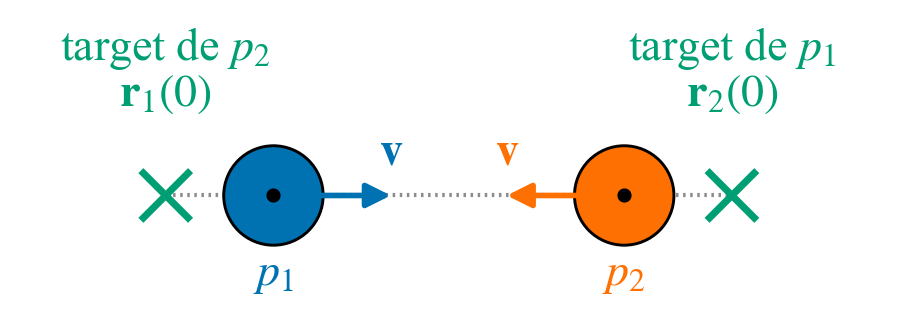
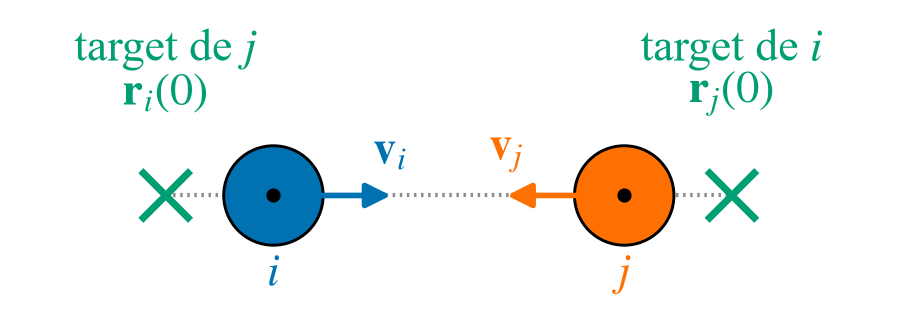
Small updates

diff --git a/docs/presentation/secciones/introduccion.tex b/docs/presentation/secciones/introduccion.tex
@@ -19,16 +19,10 @@ m_i\,\ddot{\vv{r}}_i =
 m_i\,\frac{v_{di}\,\vv{e}_0 - \vv{v}_i}{\tau_i}
 \]
 
-\[
-\text{\normalsize Capa de elusión: solo modifica }
-\vv{e}_0
-\]
-
 \vspace{6pt}
 
 \textbf{
-Fuerza de contacto, con
-$\varepsilon_{ij} = d_{ij} - (r_i + r_j)$:
+Fuerza de contacto, solo si se superponen ($\varepsilon_{ij} < 0$):
 }
 
 \[
@@ -39,45 +33,53 @@ $\varepsilon_{ij} = d_{ij} - (r_i + r_j)$:
 \Big]
 \]
 
+{\small
+$\varepsilon_{ij} = d_{ij} - (r_i + r_j)$,
+\quad $d_{ij} = \|\vv{r}_i - \vv{r}_j\|$,
+\quad $\vv{e}^{\,n}_{ij} = (\vv{r}_i - \vv{r}_j)/d_{ij}$,
+\quad $\vv{e}^{\,t}_{ij} = (-e^{n}_{ij,y},\ e^{n}_{ij,x})$,
+\quad $v^{t}_{ij} = (\vv{v}_i - \vv{v}_j)\cdot\vv{e}^{\,t}_{ij}$,
+}
+
 \end{frame}
 
 
 
 \begin{frame}{Capa de elusión}
 
-\textbf{Sistema de referencia local}
+\textbf{Sistema de referencia local} (peatón $i$, obstáculo $j$, target $\vv{t}$)
 
 \[
-\mathbf{u} =
-\frac{\mathbf{t}-\mathbf{p}}{\|\mathbf{t}-\mathbf{p}\|},
+\hat{\vv{u}} =
+\frac{\vv{t}-\vv{r}_i}{\|\vv{t}-\vv{r}_i\|},
 \qquad
-\mathbf{r} =
+\hat{\vv{n}} =
 \begin{pmatrix}u_y\\-u_x\end{pmatrix}
 \]
 
 \textbf{Proyección de la posición del obstáculo}
 
 \[
-\mathbf{q}=\mathbf{o}-\mathbf{p}
+\vv{q}=\vv{r}_j-\vv{r}_i
 \]
 
 \[
-d_{\parallel}=\mathbf{q}\cdot\mathbf{u},
+d_{\parallel}=\vv{q}\cdot\hat{\vv{u}},
 \qquad
-d_{\perp}=\mathbf{q}\cdot\mathbf{r}
+d_{\perp}=\vv{q}\cdot\hat{\vv{n}}
 \]
 
 \textbf{Condición de conflicto}
 
 \[
-R=r_o+d_{\text{lat}},
+R=r_j+\dlat,
 \qquad
-d_T=\|\mathbf{t}-\mathbf{p}\|
+d_T=\|\vv{t}-\vv{r}_i\|
 \]
 
 \[
 \boxed{
-\|\mathbf{o}-\mathbf{p}\|\leq d_{\text{act}}
+d_{ij}\leq \dact
 \quad\land\quad
 0<d_{\parallel}<d_T
 \quad\land\quad
@@ -98,13 +100,13 @@ d_T=\|\mathbf{t}-\mathbf{p}\|
       \textbf{Interpolación cuadrática (Lagrange)}
       \begin{flalign*}
         & P_0=(0,0),\quad
-          P_1=(d_{\parallel},R),\quad
+          P_1=(d_{\parallel},\,d_{\perp}+R),\quad
           P_2=(d_T,0) & \\
         & f(x)=ax^2+bx+c
           \qquad
           \boxed{
-            m=f'(0)=
-            \frac{R\,d_T}{d_{\parallel}(d_T-d_{\parallel})}
+            f'(0)=
+            \frac{(d_{\perp}+R)\,d_T}{d_{\parallel}(d_T-d_{\parallel})}
           } &
       \end{flalign*}
     \end{column}
@@ -112,12 +114,12 @@ d_T=\|\mathbf{t}-\mathbf{p}\|
       \textbf{Integración con SFM}
       \begin{flalign*}
         & \boxed{
-            \mathbf{e}_0=
-            \frac{\mathbf{u}+m\mathbf{r}}{\sqrt{1+m^2}}
+            \vv{e}_0=
+            \frac{\hat{\vv{u}}+f'(0)\,\hat{\vv{n}}}{\sqrt{1+f'(0)^2}}
           } & \\[4pt]
         & \boxed{
-            \mathbf{F}_d=
-            \frac{m_p}{\tau}(v_0\mathbf{e}_0-\mathbf{v})
+            \vv{F}_{Di}=
+            m_i\,\frac{v_{di}\,\vv{e}_0-\vv{v}_i}{\tau_i}
           } &
       \end{flalign*}
     \end{column}

diff --git a/docs/presentation/secciones/simulaciones.tex b/docs/presentation/secciones/simulaciones.tex
@@ -11,12 +11,11 @@
         \item $\tau_i = 0.5\uni{s}$
         \item $k_n = 1.2\ten{5}\uni{N/m}$
         \item $k_t = 2.4\ten{5}\uni{kg/(m\,s)}$
-        \item[] {\scriptsize Helbing et al., Nature (2000)}
       \end{parametros}
       \vspace{4pt}
       \begin{parametros}[Parámetros variables (a calibrar)]
         \item $\dlat$: margen lateral de elusión
-        \item $\dact$: distancia de activación de la elusión
+        \item $\dact$: distancia activación de elusión
       \end{parametros}
     \end{column}
   \end{cols}
@@ -60,28 +59,28 @@
 \end{frame}
 
 \begin{frame}{Observables}
-  Error del peatón $i$ del evento $m$ \ ($N_m$ instantes $t_k = k\,\Delta t_{\mathrm{exp}}$):
+  Error del peatón $i$ del evento $\ell$ \ ($N_\ell$ instantes $t_k = k\,\Delta t_{\mathrm{exp}}$):
   \[
     d^2_i(t_k) = \big|\vv{r}^{\,\mathrm{exp}}_i(t_k) - \vv{r}^{\,\mathrm{sim}}_i(t_k)\big|^2
     \qquad\quad
-    d^2_{i,\min}(t_k) = \min_{j}\big|\vv{r}^{\,\mathrm{exp}}_i(t_k) - \vv{r}^{\,\mathrm{sim}}_i(t_j)\big|^2
+    d^2_{i,\min}(t_k) = \min_{k'}\big|\vv{r}^{\,\mathrm{exp}}_i(t_k) - \vv{r}^{\,\mathrm{sim}}_i(t_{k'})\big|^2
   \]
   \[
-    \boxed{E^{(1)}_i = \frac{1}{N_m}\sum_{k} d^2_i(t_k)}
+    \boxed{E^{(1)}_i = \frac{1}{N_\ell}\sum_{k} d^2_i(t_k)}
     \qquad\quad
-    \boxed{E^{(2)}_i = \frac{1}{N_m}\sum_{k} d^2_{i,\min}(t_k)}
+    \boxed{E^{(2)}_i = \frac{1}{N_\ell}\sum_{k} d^2_{i,\min}(t_k)}
   \]
   \vspace{2pt}
   Error del evento y error poblacional:
   \[
-    E_m = \frac{1}{2}\sum_{i=1}^{2} E_i
+    E_\ell = \frac{1}{2}\sum_{i=1}^{2} E_i
     \qquad\quad
-    \langle E\rangle(\dlat,\,\dact) = \frac{1}{M}\sum_{m=1}^{M} E_m(\dlat,\,\dact)
+    \langle E\rangle(\dlat,\,\dact) = \frac{1}{M}\sum_{\ell=1}^{M} E_\ell(\dlat,\,\dact)
   \]
   \vspace{2pt}
   Barra de error: desvío estándar muestral entre eventos,\ $\langle E\rangle \pm \sigma_E$
   \[
-    \sigma_E = \sqrt{\frac{1}{M-1}\sum_{m=1}^{M}\big(E_m - \langle E\rangle\big)^2}
+    \sigma_E = \sqrt{\frac{1}{M-1}\sum_{\ell=1}^{M}\big(E_\ell - \langle E\rangle\big)^2}
   \]
 \end{frame}
 
@@ -101,7 +100,7 @@
   \begin{tabular}{ll}
     \hline
     Calibración poblacional & mínimo de $\langle E\rangle$ en la grilla, $18$ eventos \\
-    Calibración individual  & mínimo de $E_m$ en la grilla, por evento \\
+    Calibración individual  & mínimo de $E_\ell$ en la grilla, por evento \\
     Validación cruzada      & $20$ particiones al azar: $13$ de entrenamiento, $5$ de validación \\
     \hline
   \end{tabular}

diff --git a/scripts/plot_targets_driving_force.py b/scripts/plot_targets_driving_force.py
@@ -34,10 +34,10 @@ def main():
     p1 = p1_start + np.array([0.78, 0.0])
     p2 = p2_start - np.array([0.78, 0.0])
     pedestrians = (
-        {"name": "$p_1$", "here": p1, "aim": np.array([1.0, 0.0]),
-         "target": p2_start, "label": "target de $p_1$\n$\\mathbf{r}_2(0)$", "color": BLUE},
-        {"name": "$p_2$", "here": p2, "aim": np.array([-1.0, 0.0]),
-         "target": p1_start, "label": "target de $p_2$\n$\\mathbf{r}_1(0)$", "color": VERMILLION},
+        {"name": "$i$", "velocity": "$\\mathbf{v}_i$", "here": p1, "aim": np.array([1.0, 0.0]),
+         "target": p2_start, "label": "target de $i$\n$\\mathbf{r}_j(0)$", "color": BLUE},
+        {"name": "$j$", "velocity": "$\\mathbf{v}_j$", "here": p2, "aim": np.array([-1.0, 0.0]),
+         "target": p1_start, "label": "target de $j$\n$\\mathbf{r}_i(0)$", "color": VERMILLION},
     )
 
     xlim, ylim = (-3.25, 3.25), (-0.88, 1.42)
@@ -61,7 +61,7 @@ def main():
                     arrowprops={"arrowstyle": "-|>", "color": color, "lw": 1.35,
                                 "shrinkA": 0, "shrinkB": 0, "mutation_scale": 12},
                     zorder=6)
-        ax.text(tip[0], 0.16, "$\\mathbf{v}$", color=color, ha="center", va="bottom",
+        ax.text(tip[0], 0.16, ped["velocity"], color=color, ha="center", va="bottom",
                 fontsize=FONT, zorder=7,
                 bbox={"facecolor": "white", "edgecolor": "none", "pad": 0.15})
 

diff --git a/docs/presentation/secciones/implementacion.tex b/docs/presentation/secciones/implementacion.tex
@@ -6,11 +6,11 @@
 \begin{frame}{Algoritmo de simulación}
   \begin{algorithmic}[1]
     \Require $\vv{r}_i(0)$, $\vv{v}_i(0)$, target final y $v_{di}$ de cada peatón, $t_f$, $dt$, $dt_2$
-    \State $n \gets \mathrm{round}(dt_2/dt)$, \quad $dt \gets dt_2/n$
+    \State $n_{\mathrm{sub}} \gets \mathrm{round}(dt_2/dt)$, \quad $dt \gets dt_2/n_{\mathrm{sub}}$
     \For{$k = 1,\, 2,\, \dots,\, t_f/dt_2$}
-      \For{$n$ pasos de integración}
+      \For{$n_{\mathrm{sub}}$ pasos de integración}
         \For{cada peatón $i$}
-          \State $\vv{e}_0 \gets$ target temporal si hay conflicto; si no, target final
+          \State $\vv{e}_0 \gets$ tangente a la parábola si hay conflicto; si no, hacia el target final
           \State $\vv{F}_i \gets \vv{F}_{Di} + \vv{F}_{Gi}$
         \EndFor
         \State $\vv{v}_i \gets \vv{v}_i + (\vv{F}_i/m_i)\,dt$

diff --git a/docs/presentation/secciones/resultados.tex b/docs/presentation/secciones/resultados.tex
@@ -22,7 +22,7 @@
 \begin{frame}{Animación del sistema}
   \begin{cols}
     \begin{column}{0.72\textwidth}
-      \centering{\small Evento 15 (menor $E^{(2)}_m$)}\par\smallskip
+      \centering{\small Evento 15 (menor $E^{(2)}_\ell$)}\par\smallskip
       \includegraphics[width=\linewidth,height=0.66\textheight,keepaspectratio]{anim_a.png}
       \par\smallskip{\scriptsize\url{https://youtu.be/PENDIENTE}}
     \end{column}
@@ -39,7 +39,7 @@
 \begin{frame}{Animación del sistema}
   \begin{cols}
     \begin{column}{0.72\textwidth}
-      \centering{\small Evento 11 (mayor $E^{(2)}_m$)}\par\smallskip
+      \centering{\small Evento 11 (mayor $E^{(2)}_\ell$)}\par\smallskip
       \includegraphics[width=\linewidth,height=0.66\textheight,keepaspectratio]{anim_b.png}
       \par\smallskip{\scriptsize\url{https://youtu.be/PENDIENTE}}
     \end{column}

diff --git a/docs/presentation/secciones/anexo.tex b/docs/presentation/secciones/anexo.tex
@@ -7,8 +7,8 @@
     \begin{column}{0.34\textwidth}
       \begin{parametros}
         \item $18$ eventos, $36$ peatones
-        \item $|\delta| = \max_k \big|(\vv{r}_k - \vv{r}_0)\cdot\hat{\vv{n}}\big|$
-        \item $\hat{\vv{n}}$: normal a $\vv{r}_f - \vv{r}_0$, hacia derecha de peatón
+        \item $|\delta| = \max_k \big|(\vv{r}_i(t_k) - \vv{r}_i(t_0))\cdot\hat{\vv{n}}\big|$
+        \item $\hat{\vv{n}}$: normal a la recta de primera a última posición, hacia derecha de peatón
         \item Ancho de bin $0.05\uni{m}$
       \end{parametros}
       \vspace{6pt}
